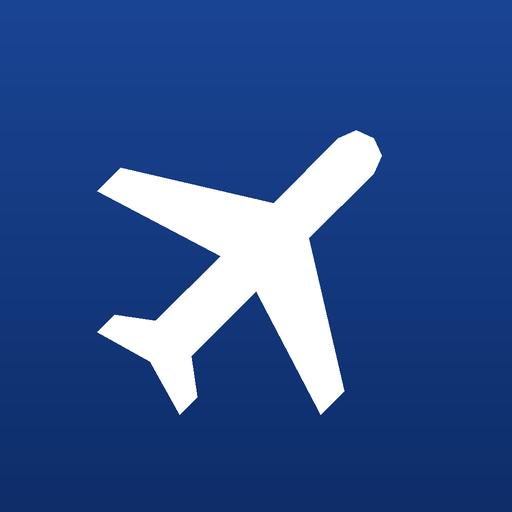
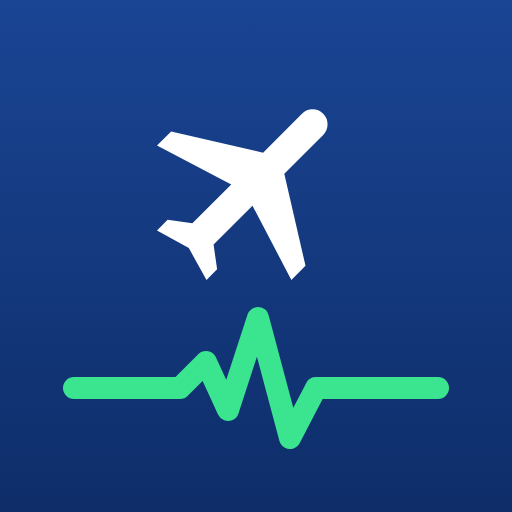
Ícono: avión con línea de pulso
Vuelve al ícono con la línea tipo electrocardiograma bajo el avión, en el
verde de la versión anterior. Se agrega ?v=2 a las referencias del ícono para
que el teléfono no use el que tenía guardado.

Claude-Session: https://claude.ai/code/session_011swyPAmES8nARxDATfFhjH

Changed region(s): [[0.125, 0.1875, 0.875, 0.875]]

diff --git a/index.html b/index.html
@@ -7,8 +7,8 @@
 <meta name="viewport" content="width=device-width, initial-scale=1, viewport-fit=cover">
 <title>FlyFit</title>
 <link rel="manifest" href="manifest.json">
-<link rel="apple-touch-icon" href="icon.png">
-<link rel="icon" href="icon.png">
+<link rel="apple-touch-icon" href="icon.png?v=2">
+<link rel="icon" href="icon.png?v=2">
 <meta name="apple-mobile-web-app-capable" content="yes">
 <meta name="mobile-web-app-capable" content="yes">
 <meta name="apple-mobile-web-app-status-bar-style" content="black-translucent">
